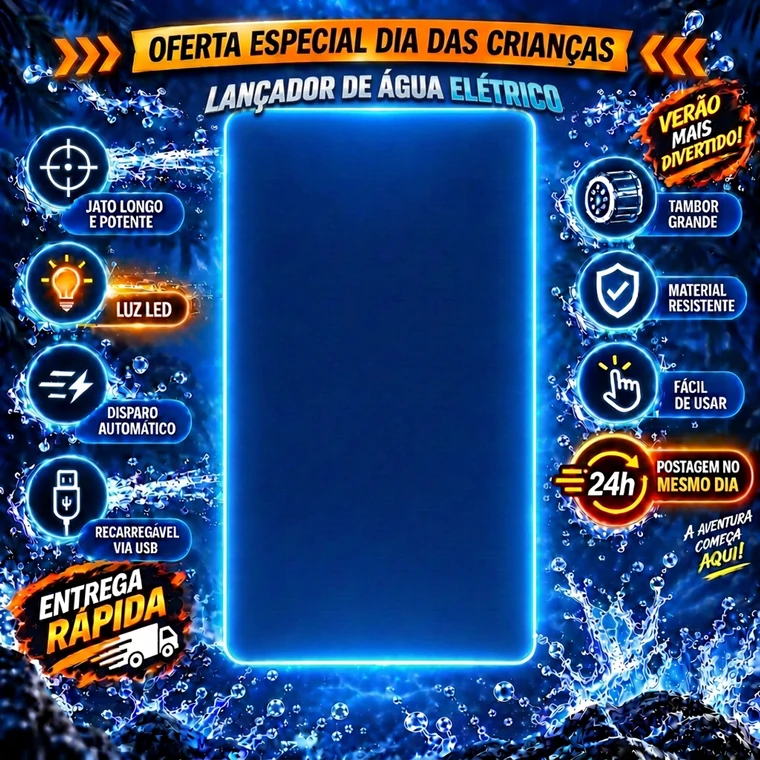
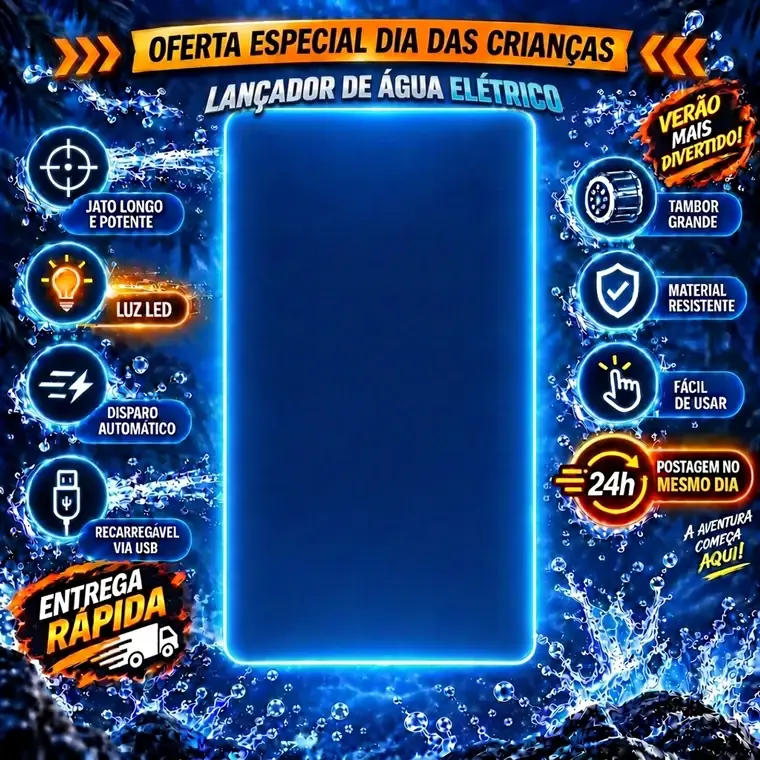
LP: desempenho no celular (videos sem preload, imagens do produto menores, cache de midia)
PageSpeed mobile 62: a pagina baixava 27,7 MB. Videos do #diversao com preload=none,
srcset 390/610 nas ofertas, moldura do topo recomprimida e cache de 7 dias em /videos e /thumbs.

Changed region(s): [[0.9987, 0.9079, 1.0, 0.9382]]

diff --git a/next.config.ts b/next.config.ts
@@ -52,6 +52,10 @@ const nextConfig: NextConfig = {
     return [
       { source: "/(.*)", headers: securityHeaders },
       { source: "/api/(.*)", headers: [{ key: "Cache-Control", value: "private, no-store" }] },
+      // Mídia da LP (PageSpeed 2026-10-02: TTL de 4 h pedia ~20 MB de re-download). 7 dias, sem `immutable`: os nomes não têm hash
+      // e o dono vai regravar vídeos, então um prazo longo demais prenderia a versão velha no navegador.
+      { source: "/videos/:path*", headers: [{ key: "Cache-Control", value: "public, max-age=604800, stale-while-revalidate=86400" }] },
+      { source: "/thumbs/:path*", headers: [{ key: "Cache-Control", value: "public, max-age=604800, stale-while-revalidate=86400" }] },
       { source: "/admin/(.*)", headers: [{ key: "X-Robots-Tag", value: "noindex, nofollow" }, { key: "Cache-Control", value: "private, no-store" }] },
       { source: "/rastrear", headers: [{ key: "X-Robots-Tag", value: "noindex" }] },
       // App do painel (PWA): o SW precisa ser buscado sempre fresco (senão uma versão velha fica presa até 24 h);

diff --git a/src/components/site/Offers.tsx b/src/components/site/Offers.tsx
@@ -124,7 +124,7 @@ export function Offers() {
             </div>
             <div className="packshot single unit-campaign-art">
               <div className="unit-art-scene">
-                <img className="unit-product" src={`/thumbs/produto-${color}-610.webp`} alt={`AquaBlast ${colorLabel.toLowerCase()}`} loading="lazy" decoding="async" />
+                <img className="unit-product" src={`/thumbs/produto-${color}-610.webp`} srcSet={`/thumbs/produto-${color}-390.webp 390w, /thumbs/produto-${color}-610.webp 610w`} sizes="(max-width: 768px) 200px, 420px" alt={`AquaBlast ${colorLabel.toLowerCase()}`} loading="lazy" decoding="async" />
               </div>
               <span className="packshot-caption">Uma surpresa. Muitos sorrisos.</span>
             </div>

diff --git a/src/components/site/Moments.tsx b/src/components/site/Moments.tsx
@@ -32,7 +32,7 @@ export function Moments() {
             return (
               <article className="video-card" data-video-slot={index} key={video.id}>
                 <div className="video-frame">
-                  <video controls playsInline preload="metadata" src={video.src} poster={video.poster} aria-label={slot.label} />
+                  <video controls playsInline preload="none" src={video.src} poster={video.poster} aria-label={slot.label} />
                 </div>
                 <h3>{slot.title}</h3>
               </article>
